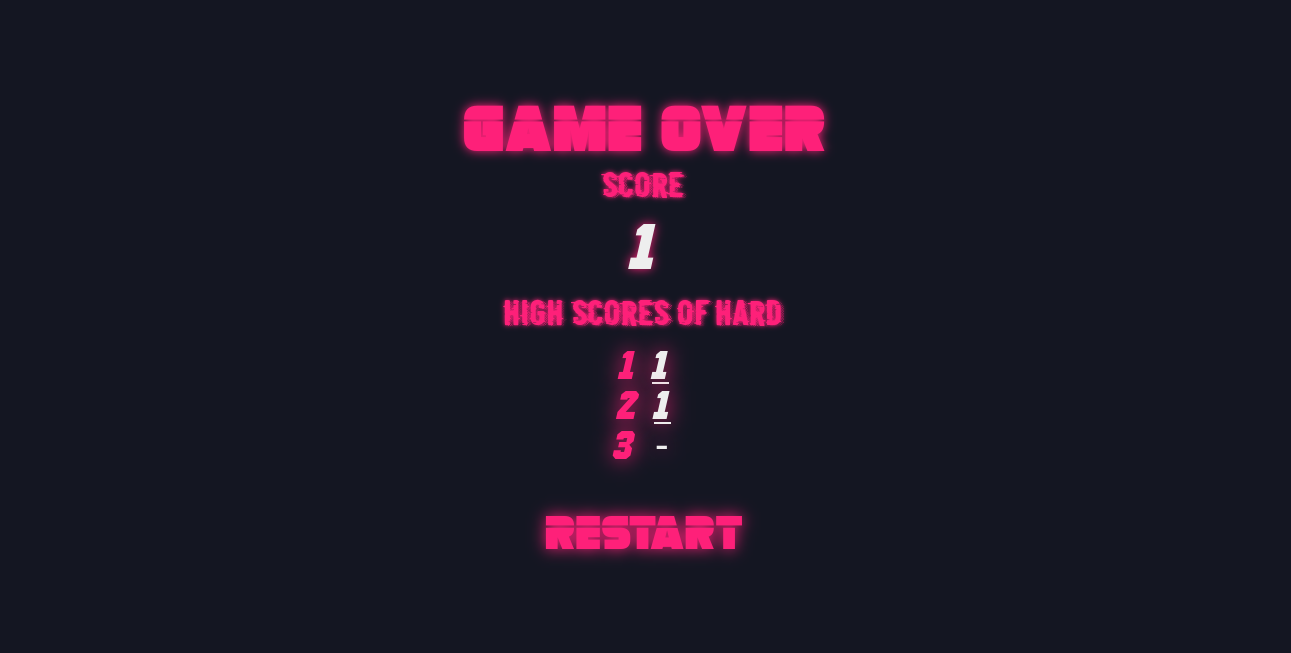
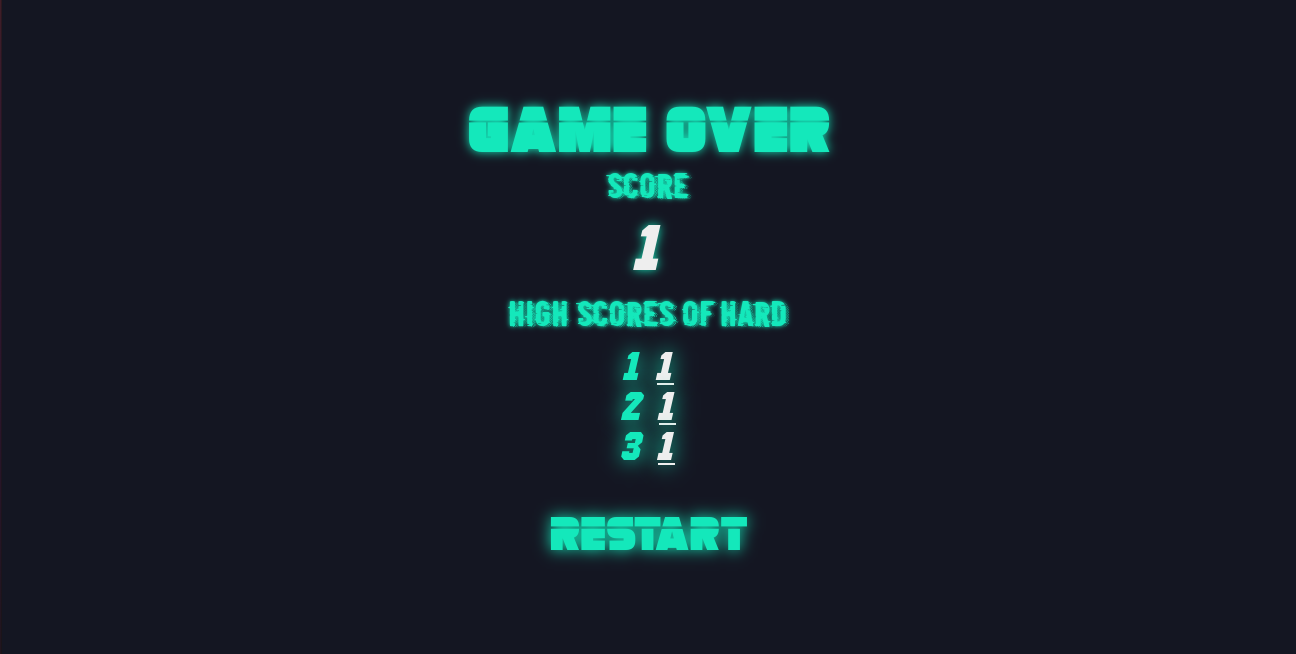
Correcciones de variables sin uso y ajustes en el color y README

diff --git a/src/styles/gameMenu.css b/src/styles/gameMenu.css
@@ -59,10 +59,10 @@
 }
 
 .game__menu-title {
-  color: #fe2079;
+  color: #14e8bb;
   font-family: 'Retronoid', -apple-system, BlinkMacSystemFont;
   font-size: 4rem;
-  text-shadow: 0 0 5px #fe2079;
+  text-shadow: 0 0 5px  #14e8bb;
   margin-top: 2rem;
   margin-bottom: 2rem;
 }
@@ -82,21 +82,21 @@
 }
 
 .game__score-gameover {
-  color: #fe2079;
+  color: #14e8bb;
   font-family: 'Retronoid', Inconsolata, monospace;
   font-size: 12rem;
-  text-shadow: 0 0 10px #fe2079;
+  text-shadow: 0 0 10px #14e8bb;
   margin: 0;
   margin-bottom: 2rem;
 }
 
 .game__score-title {
-  color: #fe2079;
+  color: #14e8bb;
   font-family: 'Retro', Inconsolata, monospace;
   font-weight: 500;
   font-size: 4rem;
   text-align: center;
-  text-shadow: 0 0 40px #fe2079;
+  text-shadow: 0 0 40px #14e8bb;
   margin: 0;
   margin-bottom: 1rem;
 }
@@ -107,7 +107,7 @@
   font-size: 10rem;
   font-weight: 500;
   text-align: center;
-  text-shadow: 0 0 20px #fe2079;
+  text-shadow: 0 0 20px #14e8bb;
   margin: 0;
 }
 
@@ -115,7 +115,7 @@
   display: flex;
   flex-direction: row;
   justify-content: space-between;
-  text-shadow: 0 0 20px #fe2079;
+  text-shadow: 0 0 20px #14e8bb;
   margin-bottom: 2rem;
 }
 
@@ -131,7 +131,7 @@
 }
 
 .game__score-number {
-  color: #fe2079;
+  color: #14e8bb;
   margin-right: 1rem;
 }
 
@@ -154,8 +154,8 @@
   border: 0;
   font-family: 'Retronoid', -apple-system, BlinkMacSystemFont, 'Segoe UI', Roboto, Oxygen, Ubuntu, Cantarell, 'Open Sans', 'Helvetica Neue', sans-serif;
   font-size: 6rem;
-  color: #fe2079;
-  text-shadow: 0 0 40px #fe2079;
+  color: #14e8bb;
+  text-shadow: 0 0 40px #14e8bb;
 }
 
 .game__menu-button-instructions {
@@ -164,8 +164,8 @@
   border: 0;
   font-family: 'Retro', -apple-system, BlinkMacSystemFont, 'Segoe UI', Roboto, Oxygen, Ubuntu, Cantarell, 'Open Sans', 'Helvetica Neue', sans-serif;
   font-size: 2rem;
-  color: #fe2079;
-  text-shadow: 0 0 40px #fe2079;
+  color: #14e8bb;
+  text-shadow: 0 0 40px #14e8bb;
 }
 
 .game__menu-button-music {
@@ -176,8 +176,8 @@
   margin-top: 8rem;
   font-family: 'Commando', -apple-system, BlinkMacSystemFont, 'Segoe UI', Roboto, Oxygen, Ubuntu, Cantarell, 'Open Sans', 'Helvetica Neue', sans-serif;
   font-size: 2rem;
-  color: #fe2079;
-  text-shadow: 0 0 20px #fe2079;
+  color: #14e8bb;
+  text-shadow: 0 0 20px #14e8bb;
 }
 
 .game__menu-musicinfo {
@@ -185,16 +185,16 @@
   margin-bottom: 0.5rem;
   font-family: 'Commando', -apple-system, BlinkMacSystemFont, 'Segoe UI', Roboto, Oxygen, Ubuntu, Cantarell, 'Open Sans', 'Helvetica Neue', sans-serif;
   font-size: 1.5rem;
-  color: #fe2079;
-  text-shadow: 0 0 20px #fe2079;
+  color: #14e8bb;
+  text-shadow: 0 0 20px #14e8bb;
 }
 
 .game__menu-controls {
   margin-top: 2rem;
   margin-bottom: 0.5rem;
   font-size: 3rem;
-  color: #fe2079;
-  text-shadow: 0 0 20px #fe2079;
+  color: #0cb6ec;
+  text-shadow: 0 0 20px #0cb6ec;
 }
 
 .game__menu-controls > h1 {
@@ -233,7 +233,7 @@
 
 .game__menu-button {
   font-size: 4rem;
-  text-shadow: 0 0 15px #fe2079;
+  text-shadow: 0 0 15px #14e8bb;
 }
 
 .game__menu-button-music {
@@ -241,12 +241,12 @@
 }
 
 .game__menu-warning {
-  text-shadow: 0 0 15px #fe2079;
+  text-shadow: 0 0 15px #14e8bb;
 }
 
 .game__score-gameover {
   font-size: 8rem;
-  text-shadow: 0 0 10px #fe2079;
+  text-shadow: 0 0 10px #14e8bb;
 }
 
 .game__score-title {
@@ -313,7 +313,7 @@
 
 .game__menu-button {
   font-size: 3rem;
-  text-shadow: 0 0 15px #fe2079;
+  text-shadow: 0 0 15px #14e8bb;
 }
 
 .game__menu-button-music {
@@ -322,22 +322,22 @@
 
 .game__menu-warning {
   font-size: 1rem;
-  text-shadow: 0 0 15px #fe2079;
+  text-shadow: 0 0 15px #14e8bb;
 }
 
 .game__score-gameover {
   font-size: 4rem;
-  text-shadow: 0 0 10px #fe2079;
+  text-shadow: 0 0 10px #14e8bb;
   margin-bottom: 1rem;
 }
 
 .game__score-title {
   font-size: 2rem;
-  text-shadow: 0 0 5px #fe2079;
+  text-shadow: 0 0 5px #14e8bb;
 }
 
 .game__score {
   font-size: 4rem;
-  text-shadow: 0 0 10px #fe2079;
+  text-shadow: 0 0 10px #14e8bb;
 }
 }

diff --git a/src/styles/hud.css b/src/styles/hud.css
@@ -1,6 +1,6 @@
 .hud {
   font-family: 'Retro', -apple-system, BlinkMacSystemFont, 'Segoe UI', Roboto, Oxygen, Ubuntu, Cantarell, 'Open Sans', 'Helvetica Neue', sans-serif;
-  text-shadow: 0 0 40px #fe2079;
+  text-shadow: 0 0 40px #14e8bb;
   color: #eee;
   font-size: 8rem;
   font-weight: 700;
@@ -12,7 +12,7 @@
     opacity: 1;
   }
   50% {
-    color: #fe2079;
+    color: #14e8bb;
     opacity: 0.7;
   }
   100% {
@@ -76,7 +76,7 @@
 }
 
 .score__title {
-  color: #fe2079;
+  color: #14e8bb;
   font-size: 3rem;
   font-weight: 500;
   margin: 0;
@@ -103,7 +103,7 @@
   opacity: 0.3;
   padding-left: 2rem;
   padding-right: 2rem;
-  color: #fe2079;
+  color: #14e8bb;
   border: none;
   display: flex;
   align-items: center;
@@ -116,8 +116,8 @@
   -moz-user-select: none; /* Firefox */
   -ms-user-select: none; /* IE10+/Edge */
   user-select: none; /* Standard */
-  box-shadow: 0 0 40px #fe2079;
-  text-shadow: 0 0 40px #fe2079;
+  box-shadow: 0 0 40px #14e8bb;
+  text-shadow: 0 0 40px #14e8bb;
 }
 
 .control-active {
@@ -158,7 +158,7 @@
     font-size: 1rem;
   }
   .hud {
-    text-shadow: 0 0 15px #fe2079;
+    text-shadow: 0 0 15px #14e8bb;
     font-size: 5rem; 
   }
 
@@ -166,6 +166,6 @@
     padding-left: 1rem;
     padding-right: 1rem;
     font-size: 4rem;
-    box-shadow: 0 0 10px #fe2079;
+    box-shadow: 0 0 10px #14e8bb;
   }
 }

diff --git a/src/state/useStore.js b/src/state/useStore.js
@@ -1,4 +1,3 @@
-import { Color } from 'three'
 import { createRef } from 'react'
 import create from 'zustand'
 
@@ -23,7 +22,6 @@ const useStore = create((set, get) => {
     previousScores : '',
     directionalLight: createRef(),
     camera: createRef(),
-    ship: createRef(),
     sun: createRef(),
     hasInteracted: false,
     setHasInteracted: () => set(strandomInRangeate => ({ hasInteracted: true })),
@@ -39,7 +37,6 @@ const useStore = create((set, get) => {
     setNumFigures: (num) => set(state => ({ numFigures: num})),
     setPlayTime: (play) => set(state => ({ playTime: play})),
     setCoordinates: (coord) => set(state => ({ coordinates: coord})),
-    setSequence: (seq) => set(state => ({ sequence: seq})),
     setNewLevel: (newLev) => set(state => ({ newLevel: newLev })),
     setSuccessClick: (success) => set(state => ({ successClick: success })),
     setSequenceLightTime: (lightTime) => set(state => ({ sequenceLightTime: lightTime })),

diff --git a/src/styles/author.css b/src/styles/author.css
@@ -1,14 +1,14 @@
 
 .author {
   margin-top: 1rem;
-  color: #fe2079;
+  color: #0cb6ec;
   font-family: 'Retro', Inconsolata, monospace;
-  text-shadow: 0 0 40px #fe2079;
+  text-shadow: 0 0 40px #0cb6ec;
   font-size: 2rem;
 }
 
 .author > a {
-  color: #fe2079;
+  color: #0cb6ec;
   text-decoration: none;
 }
 
@@ -19,13 +19,13 @@
 
 @media screen and (max-width: 992px) {
 .author {
-  text-shadow: 0 0 15px #fe2079;
+  text-shadow: 0 0 15px #0cb6ec;
 }
 }
 
 @media screen and (max-width: 600px) {
 .author {
   font-size: 1.5rem;
-  text-shadow: 0 0 15px #fe2079;
+  text-shadow: 0 0 15px #0cb6ec;
 }
 }

diff --git a/src/components/html/Author.js b/src/components/html/Author.js
@@ -3,7 +3,7 @@ import '../../styles/author.css'
 export default function Author() {
   return (
     <div className="author">
-      <a target="_blank" rel="noreferrer" href="https://adamkarlsten.com">{`SEE ON GITHUB`}</a>
+      <a target="_blank" rel="noreferrer" href="https://github.com/alu0100898293/SYTWC-2122-ThreeJs">{`SEE ON GITHUB`}</a>
     </div>
   )
 }

diff --git a/src/components/Sound.js b/src/components/Sound.js
@@ -14,8 +14,6 @@ function Sound() {
 
   const camera = useStore(s => s.camera)
   const musicEnabled = useStore(s => s.musicEnabled)
-  const level = useStore(s => s.level)
-  const gameStarted = useStore(s => s.gameStarted)
   const gameOver = useStore(s => s.gameOver)
   const successClick = useStore(s => s.successClick)
 

diff --git a/README.md b/README.md
@@ -1,9 +1,45 @@
 # Simon en Three.Js
 
+Proyecto para la asigantura Sistemas y Tecnología Web: Cliente perteneciente almáster de Ingeniería Informática de la Universidad de La Laguna.
 
+## Descripción
+
+El proyecto se basa en el juego "Simón", cuyo objetivo es reproducir correctamente una secuencia mostrada previamente a fin de reforzar el desarrollo visual y la memoria en niños. Dicha reprodcución se llevará a cabo mediante la biblioteca Three.js, empleando figuras en 3D para mostrar las secuencias.
+
+El juego consta de tres modos de dificultad donde el número de figuras, la longitud de las secuencias y el tiempo disponible varían:
+- Nivel fácil.
+    - Nº de objetos: 4.
+    - Longitud de la secuencia en la ronda 1: 4.
+    - Tiempo durante el que se iluminan/cambian de color cada objeto: 3
+segundos.
+    - Tiempo que tiene para resolver el juego: 3 * figuras en la secuencia.
+- Nivel medio.
+    - Nº de objetos: 5.
+    - Longitud de la secuencia en la ronda 1: 5.
+    - Tiempo durante el que se iluminan/cambian de color cada objeto: 2
+segundos.
+    - Tiempo que tiene para resolver el juego: 2 * figuras en la secuencia.
+- Nivel difícil.
+    - Nº de objetos: 6.
+    - Longitud de la secuencia en la ronda 1: 6.
+    - Tiempo durante el que se iluminan/cambian de color cada objeto: 1
+segundos.
+    - Tiempo que tiene para resolver el juego: 1.5 * figuras en la secuencia.
+
+## Instalación y ejecución
+
+Para ejecutar el proyecto en local, debe primero descargarse este repositorios, seguidamente instalar las depencias y luego ejecutar la tarea pertienente que elo ejecuta.
+
+```sh
+git clone https://github.com/alu0100898293/SYTWC-2122-ThreeJs.git
+npm install -force
+npm start
+```
+La instrucción de instalación precia del flag _-force_, debido a que se utilizan las versiones aún en prueba de React, lo cual provoca avisos de incompatibilidad.
 ## Capturas
 
 ![](./public/menu.png)
+![](./public/instructions.png)
 ![](./public/game.png)
 ![](./public/game-over.png)
 
